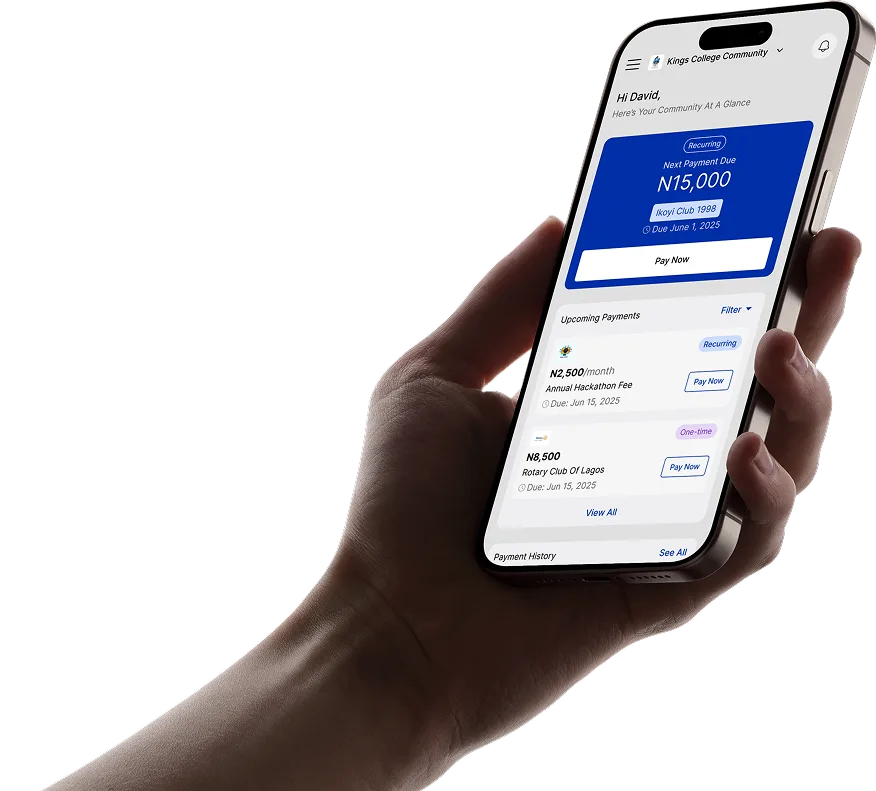
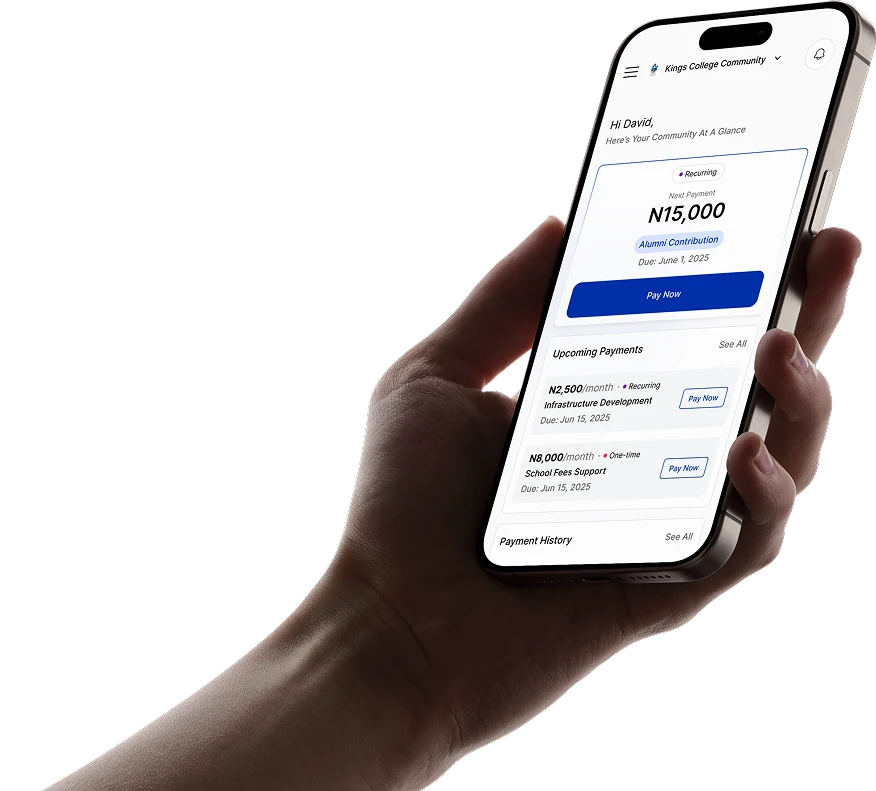
Update hero iPhone mockup to the current app design
Regenerated iphone.webp from the updated iphone.png (already replaced) so
the landing page hero actually shows the current UI -- old webp was still
the pre-redesign screenshot despite the source PNG already being current.

Changed region(s): [[0.5548, 0.0, 0.9863, 0.7282]]

diff --git a/src/components/members/MembersHero.jsx b/src/components/members/MembersHero.jsx
@@ -21,7 +21,7 @@ export default function MembersHero() {
   function handleJoin() {
     navigate(isMobileDevice() ? "/member/join" : mobileRequiredPath("/member/join"));
   }
-
+//
   useEffect(() => {
     // index.css sets `scroll-behavior: smooth` globally for anchor links —
     // that also hijacks plain scrollTo() calls, turning this reset into a